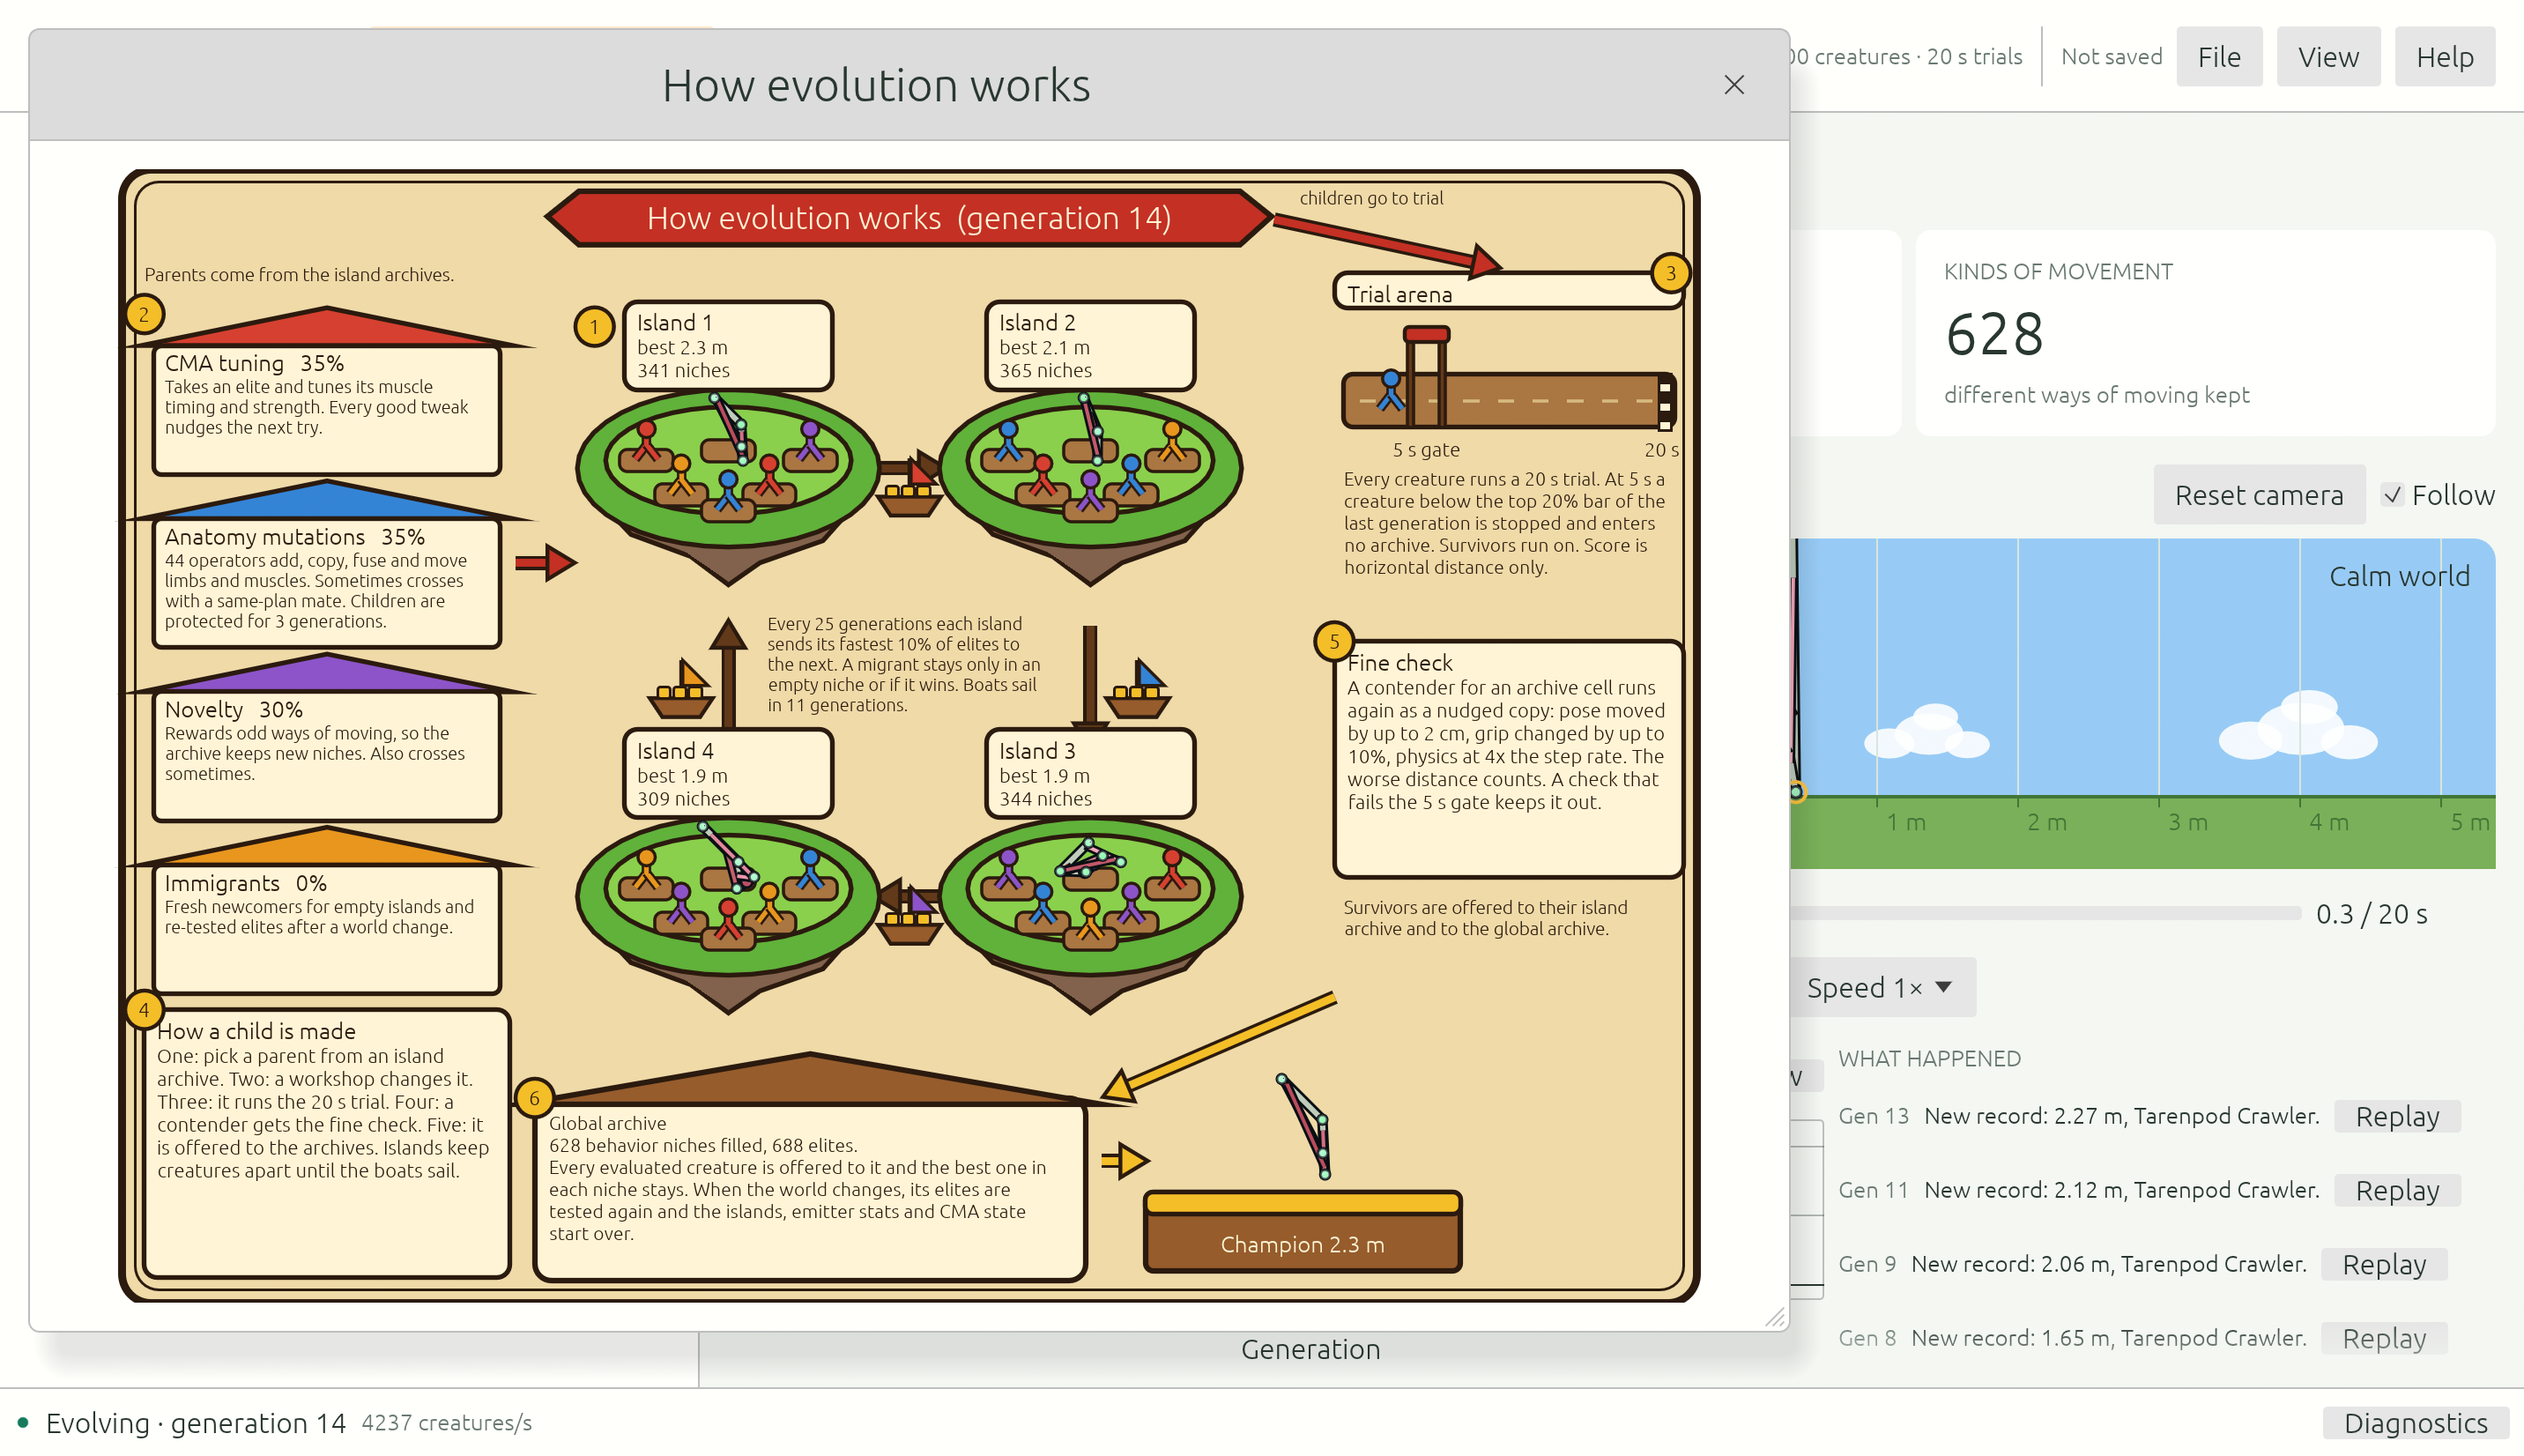
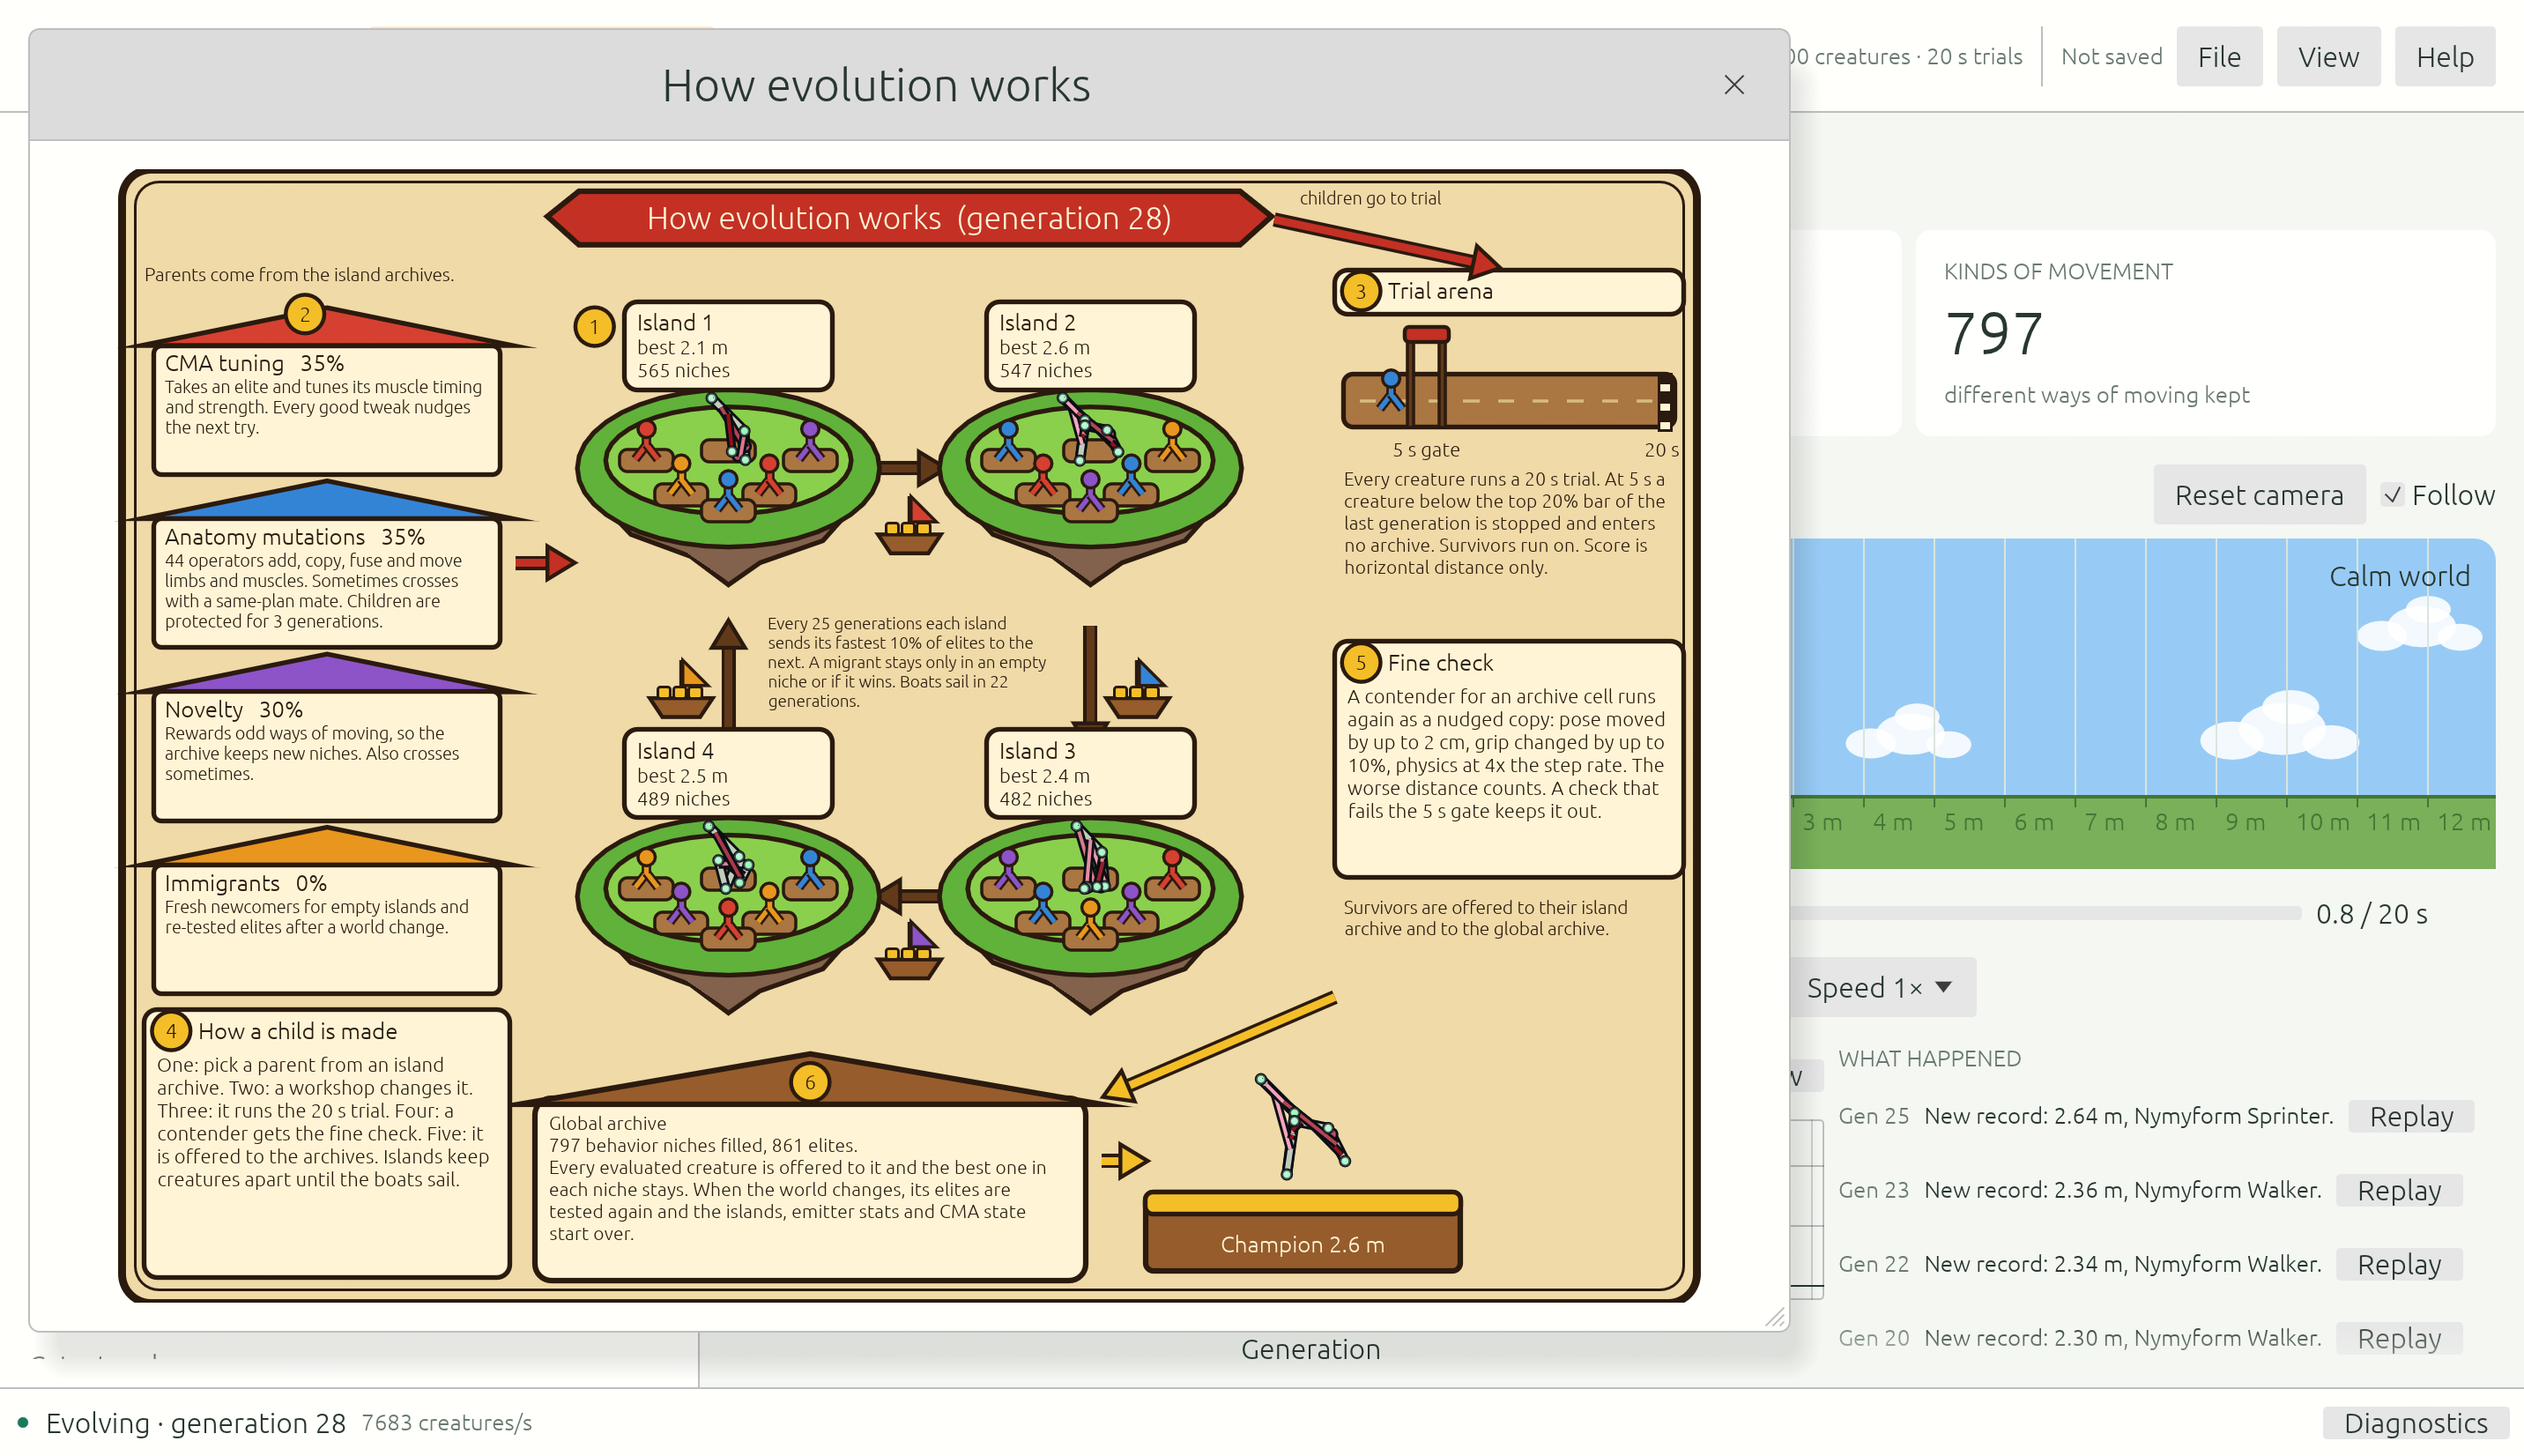
Schematic polish: badges get their own space inside the signs, boats clear the arrows, minimum window size, dark screenshot

diff --git a/src/schematic.rs b/src/schematic.rs
@@ -79,7 +79,7 @@ impl Scene<'_> {
         self.poly(&points, fill, 3.0);
     }
     fn font(&self, size: f32) -> FontId {
-        FontId::proportional((size * self.k).max(10.0))
+        FontId::proportional((size * self.k).max(9.0))
     }
     /// Wrapped text inside `r`, from the top left corner.
     fn text(&self, r: Rect, text: &str, size: f32, color: Color32) {
@@ -99,18 +99,28 @@ impl Scene<'_> {
         );
     }
     /// A cream sign with a title line and body text.
-    fn sign(&self, x: f32, y: f32, w: f32, h: f32, title: &str, body: &str) {
+    fn sign(&self, x: f32, y: f32, w: f32, h: f32, num: u32, title: &str, body: &str) {
         let r = self.rect(x, y, w, h);
         self.block(r, CREAM, 8.0, 3.0);
         let pad = 8.0 * self.k;
         let inner = r.shrink2(Vec2::new(pad, 5.0 * self.k));
-        let head = self
-            .p
-            .layout(title.to_owned(), self.font(14.5), INK, inner.width());
+        let indent = if num > 0 { 26.0 * self.k } else { 0.0 };
+        let head = self.p.layout(
+            title.to_owned(),
+            self.font(14.5),
+            INK,
+            inner.width() - indent,
+        );
         let head_h = head.size().y;
-        self.p.galley(inner.min, head, INK);
+        if num > 0 {
+            self.badge(x + 17.0, y + 5.0 + head_h / self.k * 0.5, num);
+        }
+        self.p.galley(inner.min + Vec2::new(indent, 0.0), head, INK);
         self.text(
-            Rect::from_min_max(inner.min + Vec2::new(0.0, head_h), inner.max),
+            Rect::from_min_max(
+                inner.min + Vec2::new(0.0, head_h + if num > 0 { 6.0 * self.k } else { 0.0 }),
+                inner.max,
+            ),
             body,
             12.5,
             INK,
@@ -254,7 +264,7 @@ fn island(s: &Scene, snap: Option<&Snapshot>, index: usize) {
     let best = summary.map_or(f32::NAN, |i| i.best);
     let title = format!("Island {}", index + 1);
     let body = format!("best {}\n{} niches", meters(best), cells);
-    s.sign(cx - 66.0, cy - 106.0, 132.0, 56.0, &title, &body);
+    s.sign(cx - 66.0, cy - 106.0, 132.0, 56.0, 0, &title, &body);
 }
 
 fn boat(s: &Scene, x: f32, y: f32, tint: Color32) {
@@ -333,7 +343,7 @@ fn workshop(s: &Scene, index: usize, snap: Option<&Snapshot>) {
 
 fn arena(s: &Scene) {
     // Track.
-    s.sign(770.0, 66.0, 222.0, 22.0, "Trial arena", "");
+    s.sign(770.0, 64.0, 222.0, 28.0, 3, "Trial arena", "");
     let lane = s.rect(776.0, 130.0, 210.0, 34.0);
     s.block(lane, DIRT, 6.0, 3.0);
     for i in 0..9 {
@@ -374,11 +384,10 @@ fn arena(s: &Scene) {
         300.0,
         222.0,
         150.0,
+        5,
         "Fine check",
         "A contender for an archive cell runs again as a nudged copy: pose moved by up to 2 cm, grip changed by up to 10%, physics at 4x the step rate. The worse distance counts. A check that fails the 5 s gate keeps it out.",
     );
-    s.badge(770.0, 300.0, 5);
-    s.badge(984.0, 66.0, 3);
 }
 
 /// Paints the whole picture into `rect`.
@@ -424,9 +433,9 @@ fn paint(ui: &egui::Ui, rect: Rect, snap: Option<&Snapshot>) {
     for i in 0..4 {
         island(&s, snap, i);
     }
-    boat(&s, 500.0, 208.0, ring_color[0]);
+    boat(&s, 500.0, 232.0, ring_color[0]);
     boat(&s, 645.0, 336.0, ring_color[1]);
-    boat(&s, 500.0, 480.0, ring_color[2]);
+    boat(&s, 500.0, 502.0, ring_color[2]);
     boat(&s, 355.0, 336.0, ring_color[3]);
     let next = until_migration(generation);
     let when = if next == 0 {
@@ -449,7 +458,7 @@ fn paint(ui: &egui::Ui, rect: Rect, snap: Option<&Snapshot>) {
     for i in 0..4 {
         workshop(&s, i, snap);
     }
-    s.badge(14.0, 92.0, 2);
+    s.badge(116.0, 92.0, 2);
     s.arrow((250.0, 250.0), (284.0, 250.0), RED);
     s.text(
         s.rect(14.0, 60.0, 232.0, 30.0),
@@ -488,7 +497,7 @@ fn paint(ui: &egui::Ui, rect: Rect, snap: Option<&Snapshot>) {
         12.0,
         INK,
     );
-    s.badge(262.0, 590.0, 6);
+    s.badge(437.0, 580.0, 6);
 
     // Champion podium.
     let champion = snap.and_then(|snap| {
@@ -514,10 +523,10 @@ fn paint(ui: &egui::Ui, rect: Rect, snap: Option<&Snapshot>) {
         534.0,
         232.0,
         170.0,
+        4,
         "How a child is made",
         "One: pick a parent from an island archive. Two: a workshop changes it. Three: it runs the 20 s trial. Four: a contender gets the fine check. Five: it is offered to the archives. Islands keep creatures apart until the boats sail.",
     );
-    s.badge(14.0, 534.0, 4);
 }
 
 /// Opens or closes the schematic window. `open` is the UI flag; the window's
@@ -528,6 +537,7 @@ pub fn show(ctx: &egui::Context, snapshot: Option<&Snapshot>, open: &mut bool) {
         .collapsible(false)
         .resizable(true)
         .default_size(Vec2::new(1000.0, 740.0))
+        .min_size(Vec2::new(880.0, 640.0))
         .show(ctx, |ui| {
             let avail = ui.available_size();
             let (rect, _) = ui.allocate_exact_size(
